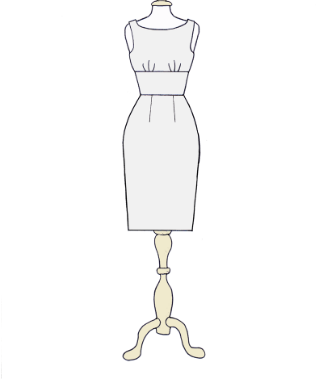
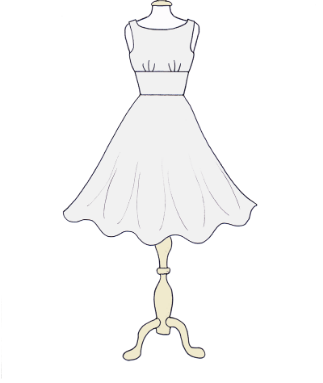
a rest server

diff --git a/scripts/server.js b/scripts/server.js
@@ -1,0 +1,38 @@
+const express = require('express')
+const app = express()
+const port = 3000
+const { spawn } = require('child_process');
+const fs = require('fs');
+
+app.use(express.json());
+app.use(express.urlencoded({ extended: true }));
+
+app.get('/', (req, res) => {
+    res.send('Hello World!')
+})
+
+app.listen(port, () => {
+    console.log(`Example app listening on port ${port}`)
+})
+
+app.post('/api/generate_dress', function (req, res) {
+    const query = req.body.query
+    const pythonProcess = spawn('python', ['./scripts/promt_to_params.py', '--description', query]);
+    pythonProcess.stdout.on('data', (path) => {
+        let pathString = path.toString().replace(/\n/g, "");
+        fs.readFile(pathString, (err, data) => {
+            if (err) {
+                // Handle the error
+                console.error(err);
+                res.status(500).send('Error reading file');
+            } else {
+                // Send the file contents in the response
+                res.send(data);
+            }
+        });
+    });
+    pythonProcess.stderr.on('data', (data) => {
+        console.error(`stderr: ${data}`);
+    });
+
+});

diff --git a/scripts/promt_to_params.py b/scripts/promt_to_params.py
@@ -1,35 +1,47 @@
+# !python
+
 import openai
 import os
 import argparse
 import json
 import subprocess
+import uuid
+
 from PIL import Image
+
 
 parser = argparse.ArgumentParser(
     description="Dress4All: Convert dress description to an dress design"
 )
-
 parser.add_argument(
     "--description", help="Dress description", default="A dress description"
 )
-
 args = parser.parse_args()
-
-openai.api_key = os.environ["OPENAI_KEY"]
 
 with open("./promt.txt", "r") as file:
     promt = file.read().replace("\n", "")
 
 promt = promt.replace("{DESCRIPTION}", args.description)
 
+# Do ChatGPT prompting
+openai.api_key = os.environ["OPENAI_KEY"]
 completion = openai.ChatCompletion.create(
     model="gpt-3.5-turbo", messages=[{"role": "user", "content": promt}]
 )
 response = completion.choices[0].message.content
-
-# make sure response is correctly formated JSON
 params = json.loads(response)
 
+# Make a dir to save this call's result
+request_uuid = str(uuid.uuid4())
+temp_dir_path = "./tmp/{uuid}".format(uuid=request_uuid)
+subprocess.Popen(
+    ["mkdir", temp_dir_path],
+    universal_newlines=True,
+    stdout=subprocess.PIPE,
+    stderr=subprocess.PIPE,
+).communicate()
+
+# Invoke Pupeteer script
 result = subprocess.Popen(
     [
         "node",
@@ -50,41 +62,58 @@ result = subprocess.Popen(
         params["extras_collar"],
         "--extras_stash",
         params["extras_stash"],
+        "--uuid",
+        request_uuid,
     ],
     universal_newlines=True,
     stdout=subprocess.PIPE,
     stderr=subprocess.PIPE,
 )
 result.communicate()
-image = Image.open("./tmp/screenshot.png")
-# Get the size of the image
+
+orig_path = "./tmp/{uuid}/screenshot.png".format(uuid=request_uuid)
+cropped_path = "./tmp/{uuid}/cropped.png".format(uuid=request_uuid)
+
+# Crop the text from screenshot
+image = Image.open(orig_path)
 width, height = image.size
 image = image.crop((0, 65, width, height))
-image.save("./tmp/cropped.png")
-
+image.save(cropped_path)
 
 result = subprocess.Popen(
     [
         "imagine",
-        "--model",
-        "SD-2.0-depth",
-        "--init-image",
-        "./tmp/cropped.png",
-        "--init-image-strength",
-        "0.05",
-        "professional photo of a woman in a fashion show, luxury, award winning, glamour"
-        "-r",
-        "1",
+        "--control-image",
+        cropped_path,
+        "--control-mode",
+        "hed",
+        # "--init-image-strength",
+        # "0.2",
+        # "professional photo of an expensive stunning dress in a fashion show, colored, dramatic angle, glass flare, award winning"
+        "make dress look super realistic photo and add colour",
+        # "-r",
+        # "1",
         "-w",
         "1024",
         "-h",
         "1024",
-        "--steps",
-        "50",
+        # "--steps",
+        # "50",
+        "--outdir",
+        "./tmp/{uuid}".format(uuid=request_uuid),
     ],
     universal_newlines=True,
     stdout=subprocess.PIPE,
     stderr=subprocess.PIPE,
 )
+
+
 result.communicate()
-print("done")
+
+# Print most recent file in directory
+out_dir = "./tmp/{uuid}/generated".format(uuid=request_uuid)
+files = os.listdir(out_dir)
+files.sort(key=lambda x: os.path.getmtime(os.path.join(out_dir, x)), reverse=True)
+if len(files) > 0:
+    most_recent_file_path = os.path.join(out_dir, files[0])
+    print(most_recent_file_path)
